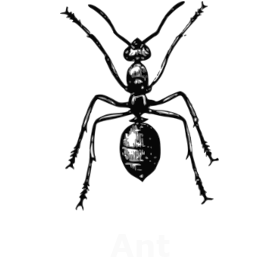
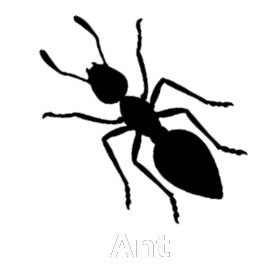
Remove danger phero, add security ij=0 radial, changes images, add mapLoad

diff --git a/core/src/ch/hearc/simulanthill/Asset.java b/core/src/ch/hearc/simulanthill/Asset.java
@@ -1,0 +1,125 @@
+package ch.hearc.simulanthill;
+
+import com.badlogic.gdx.assets.AssetDescriptor;
+import com.badlogic.gdx.assets.AssetManager;
+import com.badlogic.gdx.graphics.Texture;
+
+/**
+ * Holds all assets used in Simulanthill.
+ * When a new asset has to be used, it has to be imported here.
+ */
+public class Asset 
+{
+    static public AssetManager manager = new AssetManager();
+    static private AssetDescriptor<Texture> ant = new AssetDescriptor<Texture>("ant.png", Texture.class);
+    static private AssetDescriptor<Texture> anthill = new AssetDescriptor<Texture>("anthill.png", Texture.class);
+    static private AssetDescriptor<Texture> obstacle = new AssetDescriptor<Texture>("obstacle.png", Texture.class);
+    static private AssetDescriptor<Texture> resource = new AssetDescriptor<Texture>("resource.png", Texture.class);
+    static private AssetDescriptor<Texture> homePheromone = new AssetDescriptor<Texture>("homePheromone.png", Texture.class);
+    static private AssetDescriptor<Texture> foodPheromone = new AssetDescriptor<Texture>("foodPheromone.png", Texture.class);
+    static private AssetDescriptor<Texture> antLegend = new AssetDescriptor<Texture>("antLegend.png", Texture.class);
+    static private AssetDescriptor<Texture> anthillLegend = new AssetDescriptor<Texture>("anthillLegend.png", Texture.class);
+    static private AssetDescriptor<Texture> obstacleLegend = new AssetDescriptor<Texture>("obstacleLegend.png", Texture.class);
+    static private AssetDescriptor<Texture> resourceLegend = new AssetDescriptor<Texture>("resourceLegend.png", Texture.class);
+    static private AssetDescriptor<Texture> homePheromoneLegend = new AssetDescriptor<Texture>("homePheromoneLegend.png", Texture.class);
+    static private AssetDescriptor<Texture> foodPheromoneLegend = new AssetDescriptor<Texture>("foodPheromoneLegend.png", Texture.class);
+    static private AssetDescriptor<Texture> backgound = new AssetDescriptor<Texture>("background.png", Texture.class);
+    static private AssetDescriptor<Texture> icon = new AssetDescriptor<Texture>("icon.png", Texture.class);
+    static private AssetDescriptor<Texture> logo = new AssetDescriptor<Texture>("logo.png", Texture.class);
+
+    /**
+     * Loads all the needed assets.
+     */
+    static public void loadAssets() 
+    {
+		manager.load(Asset.ant);
+        manager.load(Asset.anthill);
+        manager.load(Asset.obstacle);
+        manager.load(Asset.resource);
+        manager.load(Asset.homePheromone);
+        manager.load(Asset.foodPheromone);
+        manager.load(Asset.backgound);
+        manager.load(Asset.antLegend);
+        manager.load(Asset.anthillLegend);
+        manager.load(Asset.obstacleLegend);
+        manager.load(Asset.resourceLegend);
+        manager.load(Asset.homePheromoneLegend);
+        manager.load(Asset.foodPheromoneLegend);
+        manager.load(Asset.icon);
+        manager.load(Asset.logo);
+		manager.finishLoading();
+	}
+
+    static public Texture ant()
+    {
+        return manager.get(ant);
+    }
+
+    static public Texture anthill()
+    {
+        return manager.get(anthill);
+    }
+
+    static public Texture obstacle()
+    {
+        return manager.get(obstacle);
+    }
+
+    static public Texture resource()
+    {
+        return manager.get(resource);
+    }
+
+    static public Texture homePheromone()
+    {
+        return manager.get(homePheromone);
+    }
+
+    static public Texture foodPheromone()
+    {
+        return manager.get(foodPheromone);
+    }
+
+    static public Texture backgound()
+    {
+        return manager.get(backgound);
+    }
+
+    static public Texture antLegend()
+    {
+        return manager.get(antLegend);
+    }
+
+    static public Texture anthillLegend()
+    {
+        return manager.get(anthillLegend);
+    }
+
+    static public Texture obstacleLegend()
+    {
+        return manager.get(obstacleLegend);
+    }
+
+    static public Texture resourceLegend()
+    {
+        return manager.get(resourceLegend);
+    }
+
+    static public Texture homePheromoneLegend()
+    {
+        return manager.get(homePheromoneLegend);
+    }
+
+    static public Texture foodPheromoneLegend()
+    {
+        return manager.get(foodPheromoneLegend);
+    }
+    static public Texture icon()
+    {
+        return manager.get(icon);
+    }
+    static public Texture logo()
+    {
+        return manager.get(logo);
+    }
+}

diff --git a/core/src/ch/hearc/simulanthill/Ecosystem.java b/core/src/ch/hearc/simulanthill/Ecosystem.java
@@ -9,7 +9,6 @@ import com.badlogic.gdx.scenes.scene2d.Stage;
 import com.badlogic.gdx.utils.viewport.Viewport;
 
 import ch.hearc.simulanthill.actors.Ant;
-import ch.hearc.simulanthill.actors.Asset;
 import ch.hearc.simulanthill.actors.ElementActor;
 import ch.hearc.simulanthill.actors.ElementActorType;
 import ch.hearc.simulanthill.actors.Pheromone;
@@ -238,14 +237,17 @@ public class Ecosystem extends Stage
         {
             for (int j = -1; j <= 1; j++)
             {
-                ElementActor v = checkRadialLine(xCase, yCase, _radius, i, j, _type);
-                if (v != null) 
+                if (!(i==0 && j==0))
                 {
-                    float d = (float)(Math.pow(_x - v.getX(), 2) + Math.pow(_y - v.getY(), 2));
-                    if (res == null || (res != null && d < distance))
+                    ElementActor v = checkRadialLine(xCase, yCase, _radius, i, j, _type);
+                    if (v != null) 
                     {
-                        distance = d;
-                        res = v;   
+                        float d = (float)(Math.pow(_x - v.getX(), 2) + Math.pow(_y - v.getY(), 2));
+                        if (res == null || (res != null && d < distance))
+                        {
+                            distance = d;
+                            res = v;   
+                        }
                     }
                 }
             }
@@ -330,7 +332,7 @@ public class Ecosystem extends Stage
         {
             for (int j = -1; j <= 1; j++)
             {
-                //if (!(j == 0 && i == 0))
+                if (!(j == 0 && i == 0))
                 {
                     Pheromone actor = checkRadialLinePheromone(xCase, yCase, _radius, i, j, toActorType(_type));
                     //Pheromone actor = (Pheromone)isElement(xi, yi, type);
@@ -529,11 +531,6 @@ public class Ecosystem extends Stage
         if (_type == PheromoneType.RESSOURCE) 
         {
             return ElementActorType.FOOD_PHEROMONE;
-        }
-
-        if (_type == PheromoneType.DANGER) 
-        {
-            return ElementActorType.DANGER_PHEROMONE;
         }
 
         return null;

diff --git a/core/src/ch/hearc/simulanthill/map/WorldMap.java b/core/src/ch/hearc/simulanthill/map/WorldMap.java
@@ -81,11 +81,16 @@ public class WorldMap
 		
 		if (validate())
 		{
+			
 			convert();
 		} 
 		else 
 		{
+			filename = "../../maps/mapLoad.txt";
 			System.out.println("ERROR : unable to convert map : map is not valid");
+			validate();
+			convert();
+			
 		}
 
 	}
@@ -250,7 +255,7 @@ public class WorldMap
 
 			size = Math.min(worldWidth / width, worldHeight / height);
 
-			elementActorGrid = new ElementActor[height][width][6];
+			elementActorGrid = new ElementActor[height][width][5];
 
 			Character character = ' ';
 
@@ -451,6 +456,10 @@ public class WorldMap
 			}
 			else
 			{
+				filename = "../../maps/mapLoad.txt";
+				System.out.println("ERROR : unable to convert map : map is not valid");
+				validate();
+				convert();
 				return false;
 			}
 		}

diff --git a/core/src/ch/hearc/simulanthill/GUI.java b/core/src/ch/hearc/simulanthill/GUI.java
@@ -4,6 +4,7 @@ import com.badlogic.gdx.scenes.scene2d.Actor;
 import com.badlogic.gdx.scenes.scene2d.InputEvent;
 import com.badlogic.gdx.scenes.scene2d.Stage;
 import com.badlogic.gdx.scenes.scene2d.ui.Image;
+import com.kotcrab.vis.ui.widget.VisDialog;
 import com.kotcrab.vis.ui.widget.VisImageButton;
 import com.kotcrab.vis.ui.widget.VisLabel;
 import com.kotcrab.vis.ui.widget.VisSlider;
@@ -14,7 +15,6 @@ import com.kotcrab.vis.ui.widget.spinner.IntSpinnerModel;
 import com.kotcrab.vis.ui.widget.spinner.Spinner;
 
 import ch.hearc.simulanthill.actors.Ant;
-import ch.hearc.simulanthill.actors.Asset;
 import ch.hearc.simulanthill.actors.Pheromone;
 
 import com.badlogic.gdx.scenes.scene2d.utils.ChangeListener;

diff --git a/core/src/ch/hearc/simulanthill/actors/ElementActorType.java b/core/src/ch/hearc/simulanthill/actors/ElementActorType.java
@@ -5,7 +5,7 @@ package ch.hearc.simulanthill.actors;
  */
 public enum ElementActorType 
 {
-    OBSTACLE(0), RESSOURCE(1), ANTHILL(2), HOME_PHEROMONE(3), FOOD_PHEROMONE(4), DANGER_PHEROMONE(5) ;
+    OBSTACLE(0), RESSOURCE(1), ANTHILL(2), HOME_PHEROMONE(3), FOOD_PHEROMONE(4);
     
     private final int value;
 

diff --git a/core/src/ch/hearc/simulanthill/AboutScreen.java b/core/src/ch/hearc/simulanthill/AboutScreen.java
@@ -11,8 +11,6 @@ import com.kotcrab.vis.ui.widget.VisImage;
 import com.kotcrab.vis.ui.widget.VisLabel;
 import com.kotcrab.vis.ui.widget.VisTable;
 
-import ch.hearc.simulanthill.actors.Asset;
-
 /**
  * Gives information about the institution and students that worked on the simulator
  */

diff --git a/desktop/src/ch/hearc/simulanthill/desktop/DesktopLauncher.java b/desktop/src/ch/hearc/simulanthill/desktop/DesktopLauncher.java
@@ -1,6 +1,5 @@
 package ch.hearc.simulanthill.desktop;
 
-import com.badlogic.gdx.Gdx;
 import com.badlogic.gdx.Files;
 import com.badlogic.gdx.backends.lwjgl.LwjglApplication;
 import com.badlogic.gdx.backends.lwjgl.LwjglApplicationConfiguration;

diff --git a/core/src/ch/hearc/simulanthill/Simulanthill.java b/core/src/ch/hearc/simulanthill/Simulanthill.java
@@ -4,8 +4,6 @@ import com.badlogic.gdx.Game;
 import com.badlogic.gdx.Screen;
 import com.kotcrab.vis.ui.VisUI;
 
-import ch.hearc.simulanthill.actors.Asset;
-
 /**
  * Is the class that handle the whole simulation.
  */

diff --git a/core/src/ch/hearc/simulanthill/actors/Anthill.java b/core/src/ch/hearc/simulanthill/actors/Anthill.java
@@ -1,4 +1,5 @@
 package ch.hearc.simulanthill.actors;
+import ch.hearc.simulanthill.Asset;
 import ch.hearc.simulanthill.Ecosystem;
 /**
  * The anthill actor that makes ants spawning

diff --git a/core/src/ch/hearc/simulanthill/actors/Ant.java b/core/src/ch/hearc/simulanthill/actors/Ant.java
@@ -1,6 +1,7 @@
 package ch.hearc.simulanthill.actors;
 import com.badlogic.gdx.math.MathUtils;
 
+import ch.hearc.simulanthill.Asset;
 import ch.hearc.simulanthill.Ecosystem;
 
 /**

diff --git a/core/src/ch/hearc/simulanthill/actors/Obstacle.java b/core/src/ch/hearc/simulanthill/actors/Obstacle.java
@@ -1,5 +1,7 @@
 package ch.hearc.simulanthill.actors;
 
+import ch.hearc.simulanthill.Asset;
+
 /**
  * The class representing the obstacles
  */

diff --git a/core/src/ch/hearc/simulanthill/actors/Pheromone.java b/core/src/ch/hearc/simulanthill/actors/Pheromone.java
@@ -1,5 +1,6 @@
 package ch.hearc.simulanthill.actors;
 
+import ch.hearc.simulanthill.Asset;
 import ch.hearc.simulanthill.Ecosystem;
 
 /**
